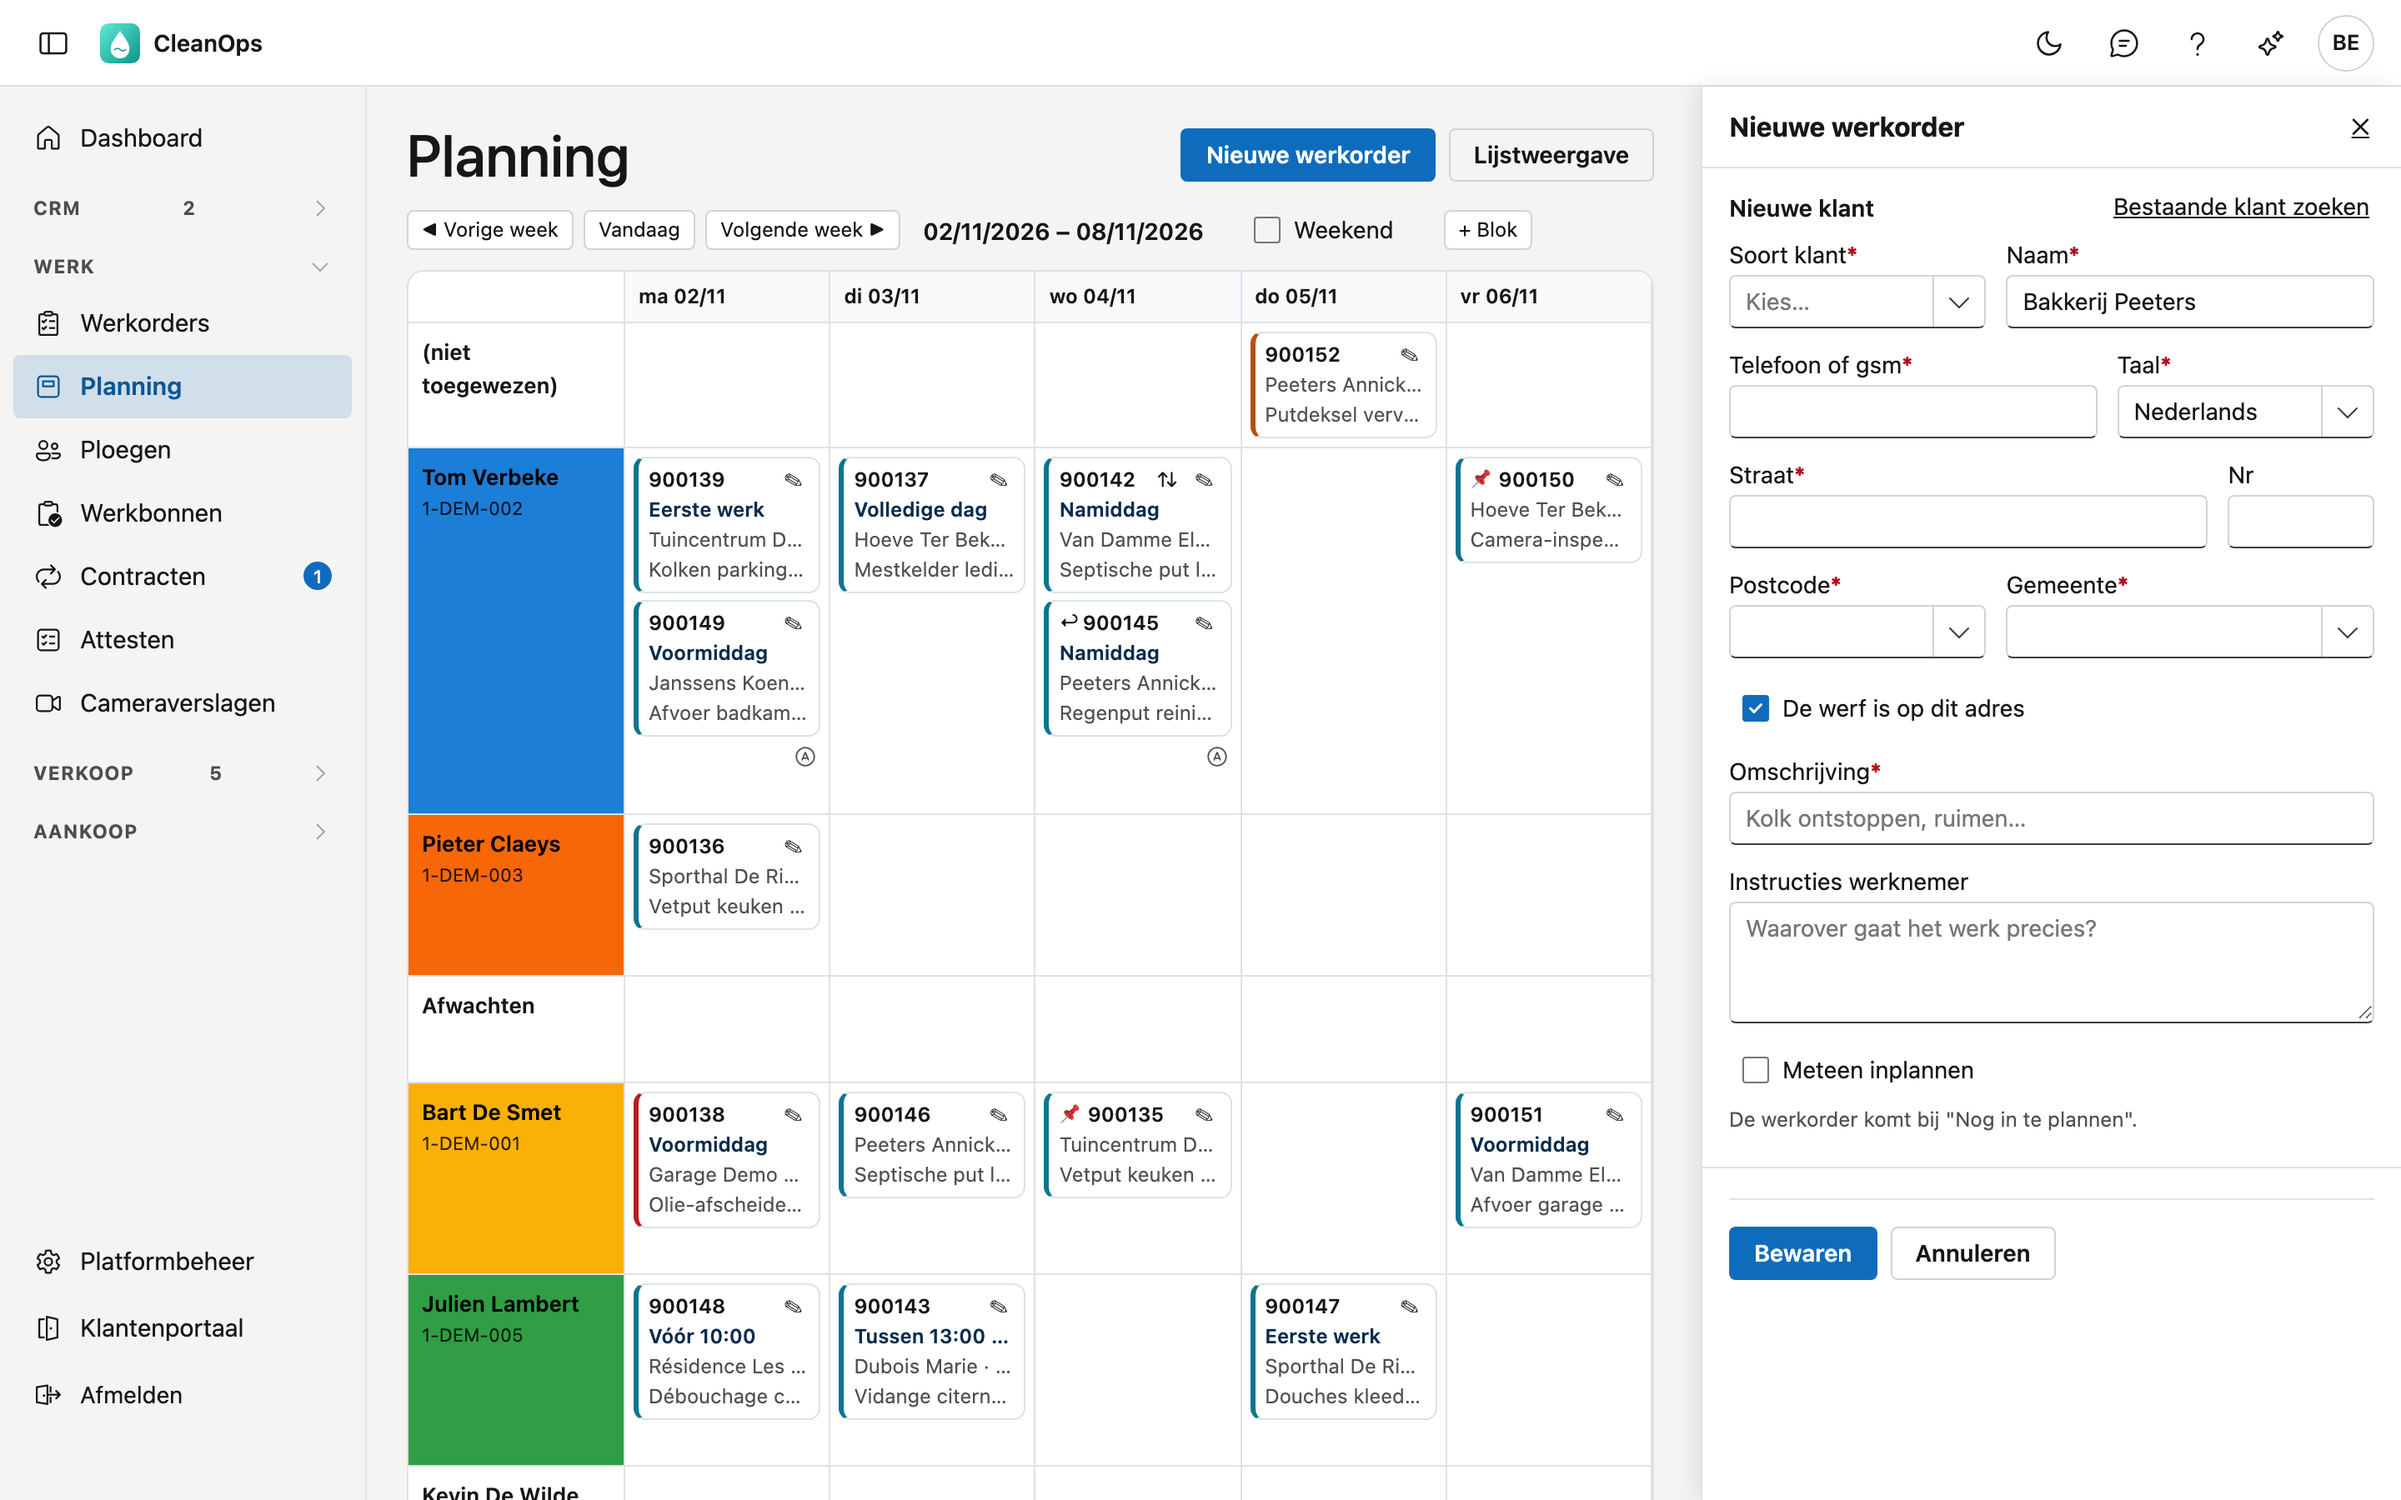
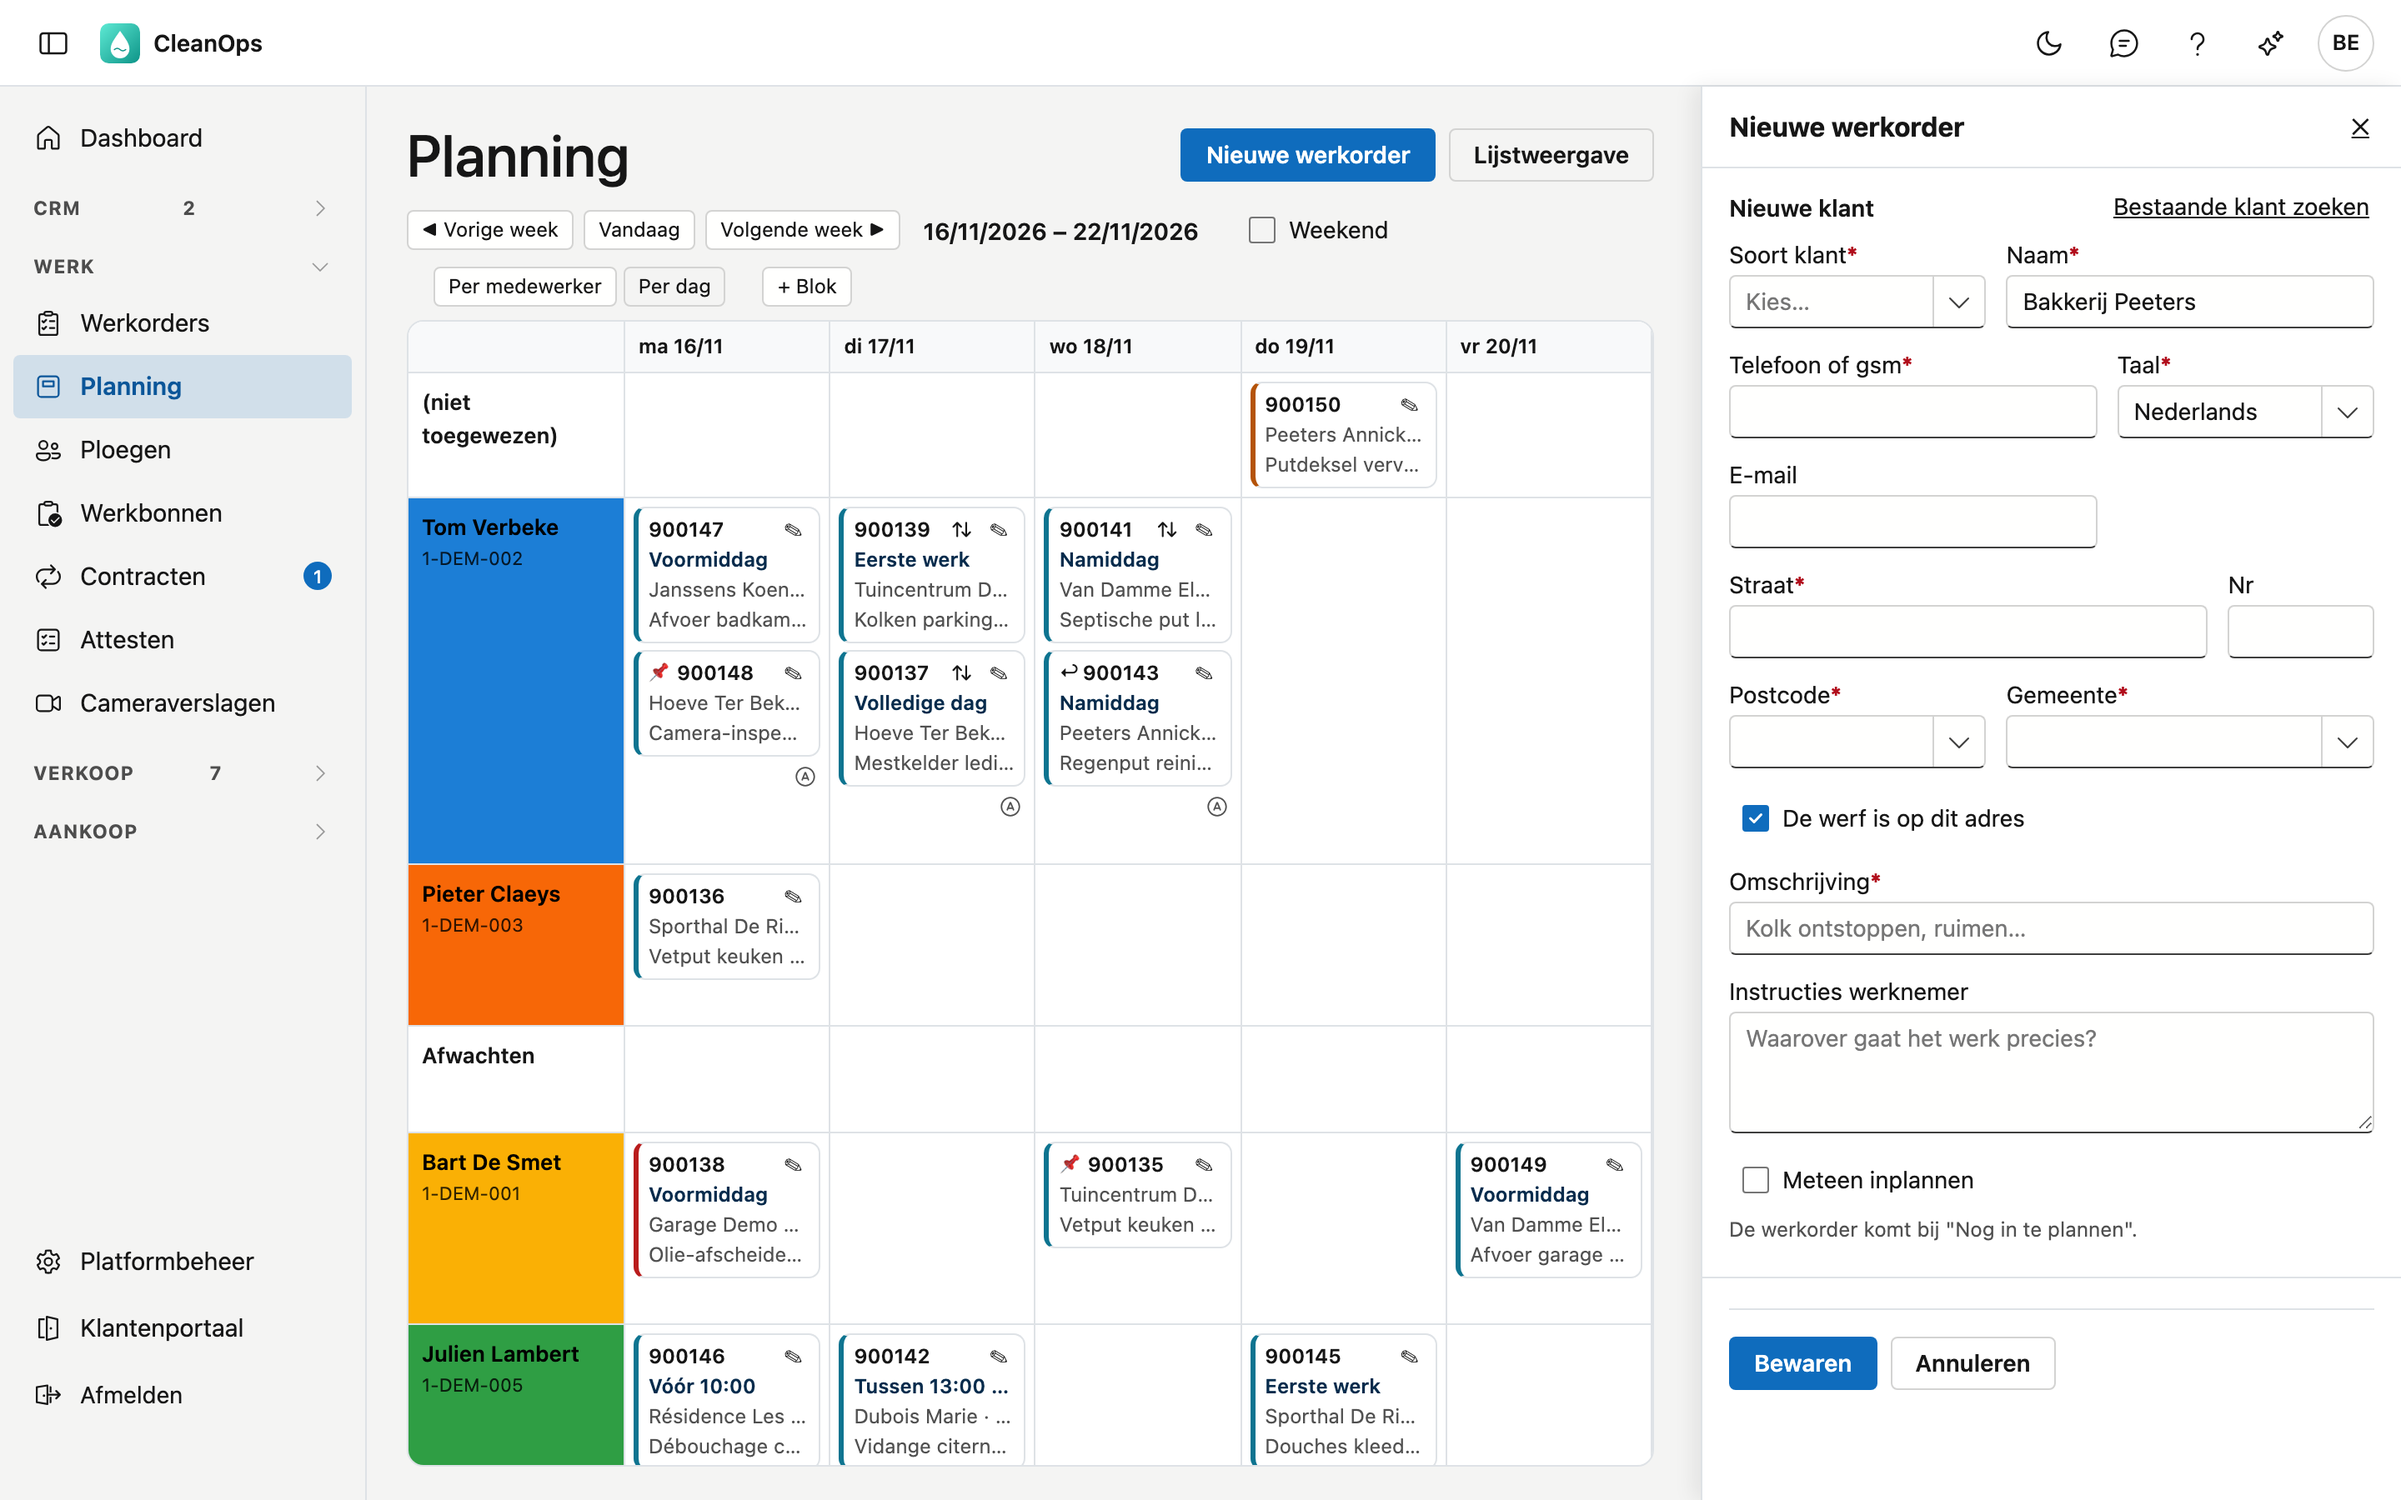
Klanten in de app: aanmaken en wijzigen (vanaf 1.3.3), en e-mail bij een nieuwe klant op het planbord en in de app, NL en FR

diff --git a/docs/app/kantoor-relaties.md b/docs/app/kantoor-relaties.md
@@ -1,12 +1,13 @@
 ---
-description: "Klanten en leveranciers in de app van CleanOps voor kantoor: zoeken, de klantkaart met openstaand saldo en recente facturen, en het saldo van een leverancier."
+description: "Klanten en leveranciers in de app van CleanOps voor kantoor: zoeken, de klantkaart met openstaand saldo en recente facturen, een klant aanmaken of wijzigen, en het saldo van een leverancier."
 ---
 
 # Klanten en leveranciers
 
 Onder **Klanten** en **Leveranciers** zoekt u in de app een klant of een leverancier op, met zijn gegevens en, als uw rol
 het recht heeft, wat er openstaat. Wie welk scherm ziet, volgt de rechten van zijn rol (zie
-[De app voor kantoor](kantoor.md)). Een klant of leverancier wijzigen doet u op de computer.
+[De app voor kantoor](kantoor.md)). Een klant aanmaken of wijzigen kan vanaf versie 1.3.3 ook in de app (zie
+[Een klant aanmaken of wijzigen](#een-klant-aanmaken-of-wijzigen)); een leverancier wijzigt u op de computer.
 
 Op een **tablet** staat de fiche rechts naast de lijst; op een **telefoon** opent ze als een eigen scherm.
 
@@ -36,6 +37,31 @@ Een tik op een factuur, een offerte of een werkorder opent haar fiche, als uw ro
 !!! info
     De medewerkers in het veld zien op hun klantkaart **nooit** bedragen, facturen of openstaande posten. Het geld staat
     enkel in de app voor kantoor, voor wie het recht heeft.
+
+### Een klant aanmaken of wijzigen
+
+Vanaf versie 1.3.3, met het recht **Klanten bewerken**, zoals op de computer. U hebt een verbinding nodig: zonder bereik bewaart
+de app niets.
+
+- **Een nieuwe klant:** tik onderaan de lijst op **Nieuwe klant**. Na **Bewaren** opent zijn fiche.
+- **Een klant wijzigen:** tik op de fiche rechtsboven op het potlood. Na **Bewaren** komt u terug op de fiche.
+
+Het formulier heeft drie delen:
+
+| Deel | Velden |
+|---|---|
+| Klant | **Particulier** of **Bedrijf**, de naam, het adres en de taal. Bij een bedrijf ook het **btw-nummer**: dat is verplicht, en **Ophalen** vult naam en adres in uit de KBO. |
+| Contact | **Telefoon**, **gsm**, **e-mail** en **contactpersoon**. |
+| Opmerkingen | Het vrije veld van de klantfiche. |
+
+Een nieuwe klant krijgt de standaard betaaltermijn van de [bedrijfsfiche](../beheer/bedrijfsfiche.md#nieuwe-klanten); staat
+daar geen, dan vraagt het formulier ze. De **facturatie** (betaaltermijn, facturen per e-mail en de e-mailadressen per soort) en
+de **werfadressen** wijzigt u op de [klantfiche](../klanten.md) op de computer.
+
+Wijzigde iemand anders hetzelfde veld terwijl u het formulier open had, dan bewaart de app niets en zegt ze het. Open de fiche
+opnieuw om te zien wat er nu staat. Wat een collega in een ander veld wijzigde, blijft gewoon staan.
+
+![Klant wijzigen op een tablet: Particulier of Bedrijf, Naam, het adres en de taal, daaronder Contact met Telefoon, Gsm, E-mail en Contactpersoon, en de Opmerkingen](../images/app-kantoor-klant-wijzigen.png "Klant wijzigen"){ width="560" }
 
 ## Leveranciers
 

diff --git a/docs/planning.fr.md b/docs/planning.fr.md
@@ -28,7 +28,7 @@ droite sur **Nouvel ordre de travail**. Un panneau s'ouvre à droite, la semaine
 champ de recherche. Vous pouvez changer de semaine entre-temps pour voir ce qui convient. Sur un écran de 1700 pixels de large
 au maximum, la colonne **Encore à planifier** et l'explication du haut disparaissent pendant ce temps, pour que la semaine reste lisible.
 
-![Le tableau de planning avec à droite le panneau Nouvel ordre de travail : Type de client, Nom, Téléphone ou GSM, Rue, Description, Instructions au collaborateur et Planifier maintenant](images/planning-paneel-fr.png "Nouvel ordre de travail")
+![Le tableau de planning avec à droite le panneau Nouvel ordre de travail : Type de client, Nom, Téléphone ou GSM, E-mail, Rue, Description, Instructions au collaborateur et Planifier maintenant](images/planning-paneel-fr.png "Nouvel ordre de travail")
 
 1. **Le client** — tapez un nom, un numéro de téléphone ou un numéro de client et cliquez sur **choisir**. Un numéro se trouve
    quelle que soit sa notation : *0478 12 34 56* et *+32 478 12 34 56* trouvent le même client. Si le client n'existe pas encore,
@@ -68,6 +68,7 @@ modifier les clients.
 | Nom * | Ce que vous avez tapé dans le champ de recherche s'y trouve déjà. |
 | Téléphone ou GSM * | Un seul numéro : un numéro de GSM va dans **GSM**, un autre dans **Téléphone**. |
 | Langue * | La langue des documents pour ce client. |
+| E-mail | Peut rester vide. Une adresse invalide empêche l'enregistrement. |
 | Numéro de TVA | Uniquement pour une entreprise, et il peut rester vide. Avec **Rechercher**, CleanOps montre ce que la BCE sait, et vous reprenez le nom et l'adresse. |
 | Rue *, N°, Code postal *, Commune * | L'adresse du client. Le pays est la Belgique ; vous choisissez un autre pays sur la fiche client. |
 | Délai de paiement * | N'apparaît que si la [fiche d'entreprise](beheer/bedrijfsfiche.fr.md#nouveaux-clients) n'a pas de délai de paiement par défaut. |

diff --git a/docs/planning.md b/docs/planning.md
@@ -26,7 +26,7 @@ Krijgt u een klant aan de lijn, dan noteert u de opdracht terwijl u op het planb
 U kunt ondertussen van week wisselen om te zien wanneer het past. Op een scherm tot 1700 pixels breed verdwijnen zolang de
 kolom **Nog in te plannen** en de uitleg bovenaan, zodat de week leesbaar blijft.
 
-![Het planbord met rechts het paneel Nieuwe werkorder: Soort klant, Naam, Telefoon of gsm, Straat, Omschrijving, Instructies werknemer en Meteen inplannen](images/planning-paneel.png "Nieuwe werkorder")
+![Het planbord met rechts het paneel Nieuwe werkorder: Soort klant, Naam, Telefoon of gsm, E-mail, Straat, Omschrijving, Instructies werknemer en Meteen inplannen](images/planning-paneel.png "Nieuwe werkorder")
 
 1. **De klant** — typ een naam, een telefoonnummer of een klantnummer en klik op **kies**. Een nummer vindt u in elke
    schrijfwijze: *0478 12 34 56* en *+32 478 12 34 56* vinden dezelfde klant. Bestaat de klant nog niet, klik dan op
@@ -64,6 +64,7 @@ met het recht om werkorders te wijzigen, en een nieuwe klant of adres vraagt ook
 | Naam * | Wat u in het zoekveld typte, staat hier al. |
 | Telefoon of gsm * | Eén nummer: een gsm-nummer komt bij **Gsm**, een ander bij **Telefoon**. |
 | Taal * | De taal van de documenten voor deze klant. |
+| E-mail | Mag leeg. Een ongeldig adres houdt het bewaren tegen. |
 | Btw-nummer | Enkel bij een bedrijf, en het mag leeg. Met **Ophalen** toont CleanOps wat de KBO weet, en neemt u naam en adres over. |
 | Straat *, Nr, Postcode *, Gemeente * | Het adres van de klant. Het land is België; een ander land kiest u op de klantfiche. |
 | Betaaltermijn * | Staat er enkel als de [bedrijfsfiche](beheer/bedrijfsfiche.md#nieuwe-klanten) geen standaard betaaltermijn heeft. |

diff --git a/docs/app/kantoor-werkorders.fr.md b/docs/app/kantoor-werkorders.fr.md
@@ -47,7 +47,7 @@ travail**, et avec le droit **Modifier les clients** aussi pour un nouveau clien
 Touchez **Nouvel ordre** en bas à droite : sur l'**Aperçu** ou le [Planning de la semaine](weekplanning.fr.md) et, à partir de la version 1.3.1, aussi sur cet écran et, si vous êtes également collaborateur, sur votre [planning](planning.fr.md). Le formulaire comporte quatre parties :
 
 1. **Client.** Cherchez par nom, téléphone, commune ou numéro de client. Si le client n'y figure pas, touchez **Nouveau client :** suivi de ce que vous avez tapé. Un nom
-   va dans le champ Nom, un numéro dans le champ **Téléphone ou GSM**. Choisissez **Particulier** ou **Entreprise** et remplissez l'adresse. Pour une entreprise,
+   va dans le champ Nom, un numéro dans le champ **Téléphone ou GSM**. À partir de la version 1.3.3, vous indiquez aussi l'**adresse e-mail** (peut rester vide). Choisissez **Particulier** ou **Entreprise** et remplissez l'adresse. Pour une entreprise,
    **Récupérer** reprend le nom et l'adresse de la BCE. Le numéro de TVA peut rester vide, mais sans numéro, CleanOps ne crée pas encore de facture.
 2. **Adresse.** Pour un client existant, vous choisissez l'une de ses adresses. Si le chantier est ailleurs, activez **Le chantier est à une autre adresse**.
 3. **Travail.** La **description** figure sur la facture et compte au plus 35 caractères. Ce dont il s'agit exactement va dans les **instructions**, que l'équipe lit.

diff --git a/docs/app/kantoor-werkorders.md b/docs/app/kantoor-werkorders.md
@@ -44,7 +44,7 @@ met het recht **Klanten bewerken** ook voor een nieuwe klant. U hebt een verbind
 Tik rechtsonder op **Nieuwe werkorder**: op het **Overzicht** of de [Weekplanning](weekplanning.md), en vanaf versie 1.3.1 ook op dit scherm en, als u ook medewerker bent, op uw [planning](planning.md). Het formulier heeft vier delen:
 
 1. **Klant.** Zoek op naam, telefoon, gemeente of klantnummer. Staat de klant er niet tussen, tik dan op **Nieuwe klant:** gevolgd
-   door wat u typte. Een naam komt in het veld Naam, een nummer in het veld **Telefoon of gsm**. Kies **Particulier** of **Bedrijf** en vul het adres in.
+   door wat u typte. Een naam komt in het veld Naam, een nummer in het veld **Telefoon of gsm**. Vanaf versie 1.3.3 vult u ook het **e-mailadres** in (mag leeg). Kies **Particulier** of **Bedrijf** en vul het adres in.
    Bij een bedrijf haalt **Ophalen** de naam en het adres uit de KBO. Het btw-nummer mag leeg blijven, maar zonder nummer maakt CleanOps nog geen factuur.
 2. **Adres.** Bij een bestaande klant kiest u een van zijn adressen. Ligt de werf ergens anders, zet dan **De werf ligt op een ander adres** aan.
 3. **Werk.** De **omschrijving** komt op de factuur en telt hoogstens 35 tekens. Waarover het precies gaat, zet u in de **instructies**, die de ploeg leest.
